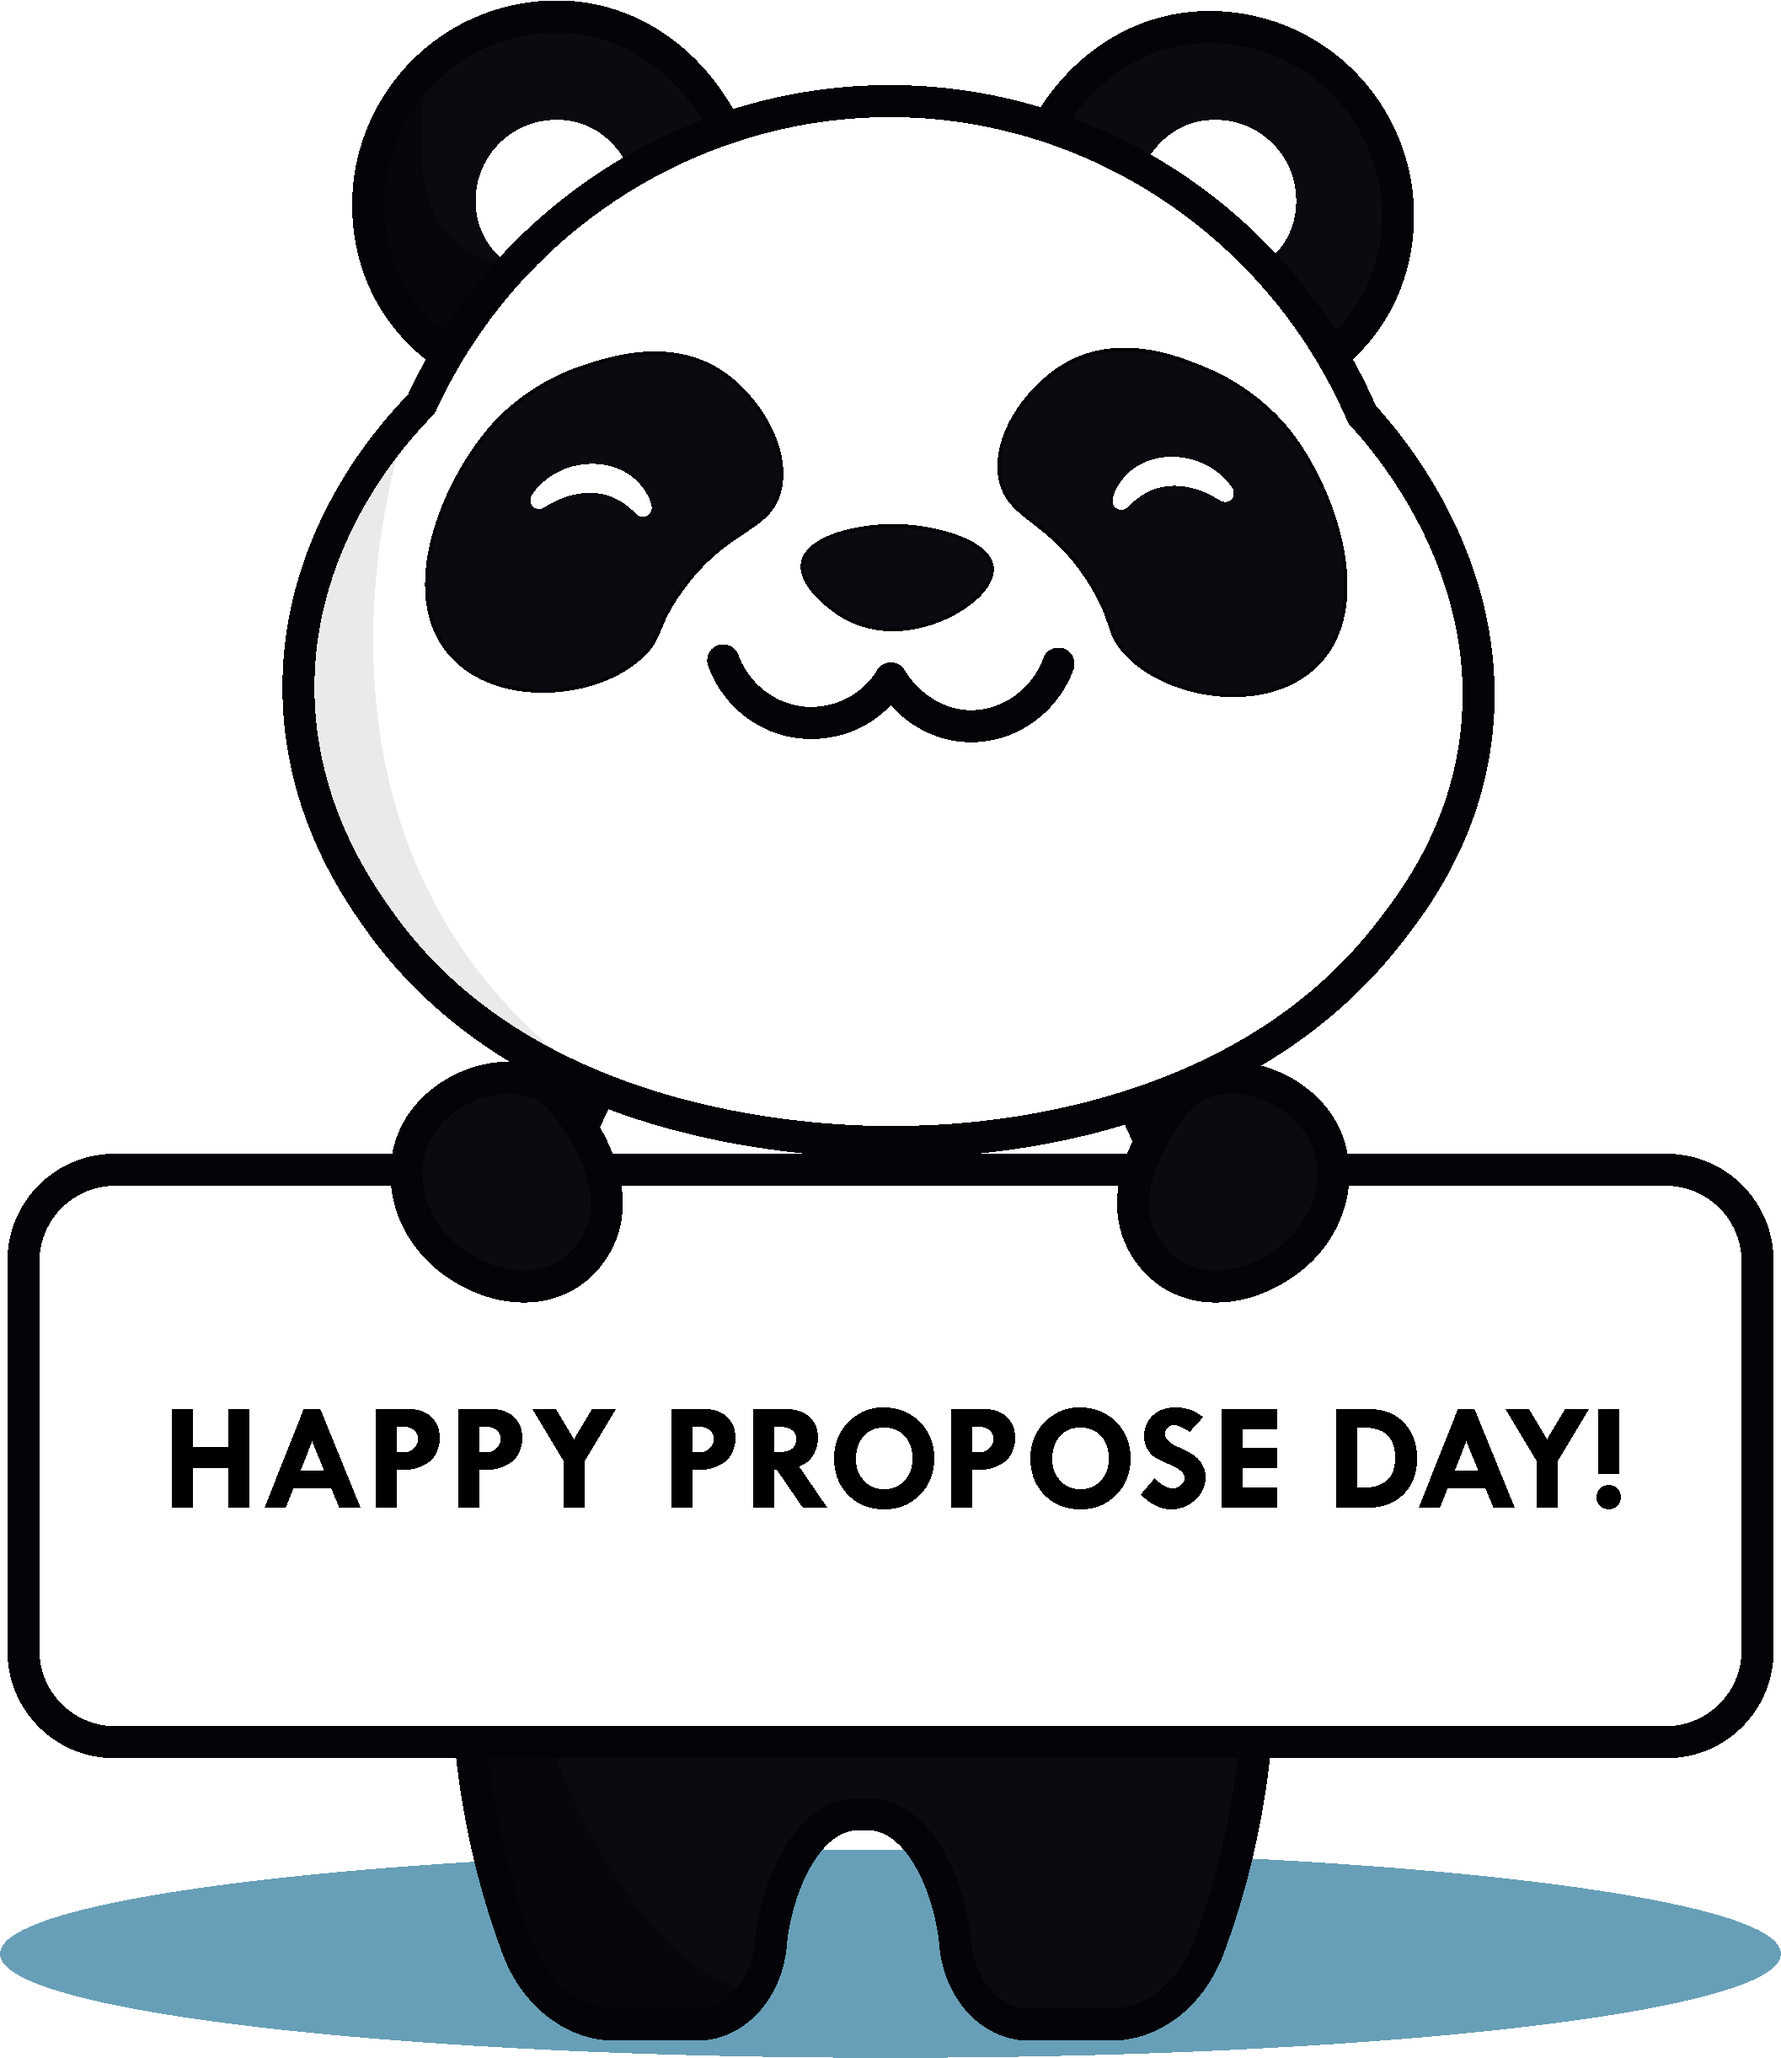
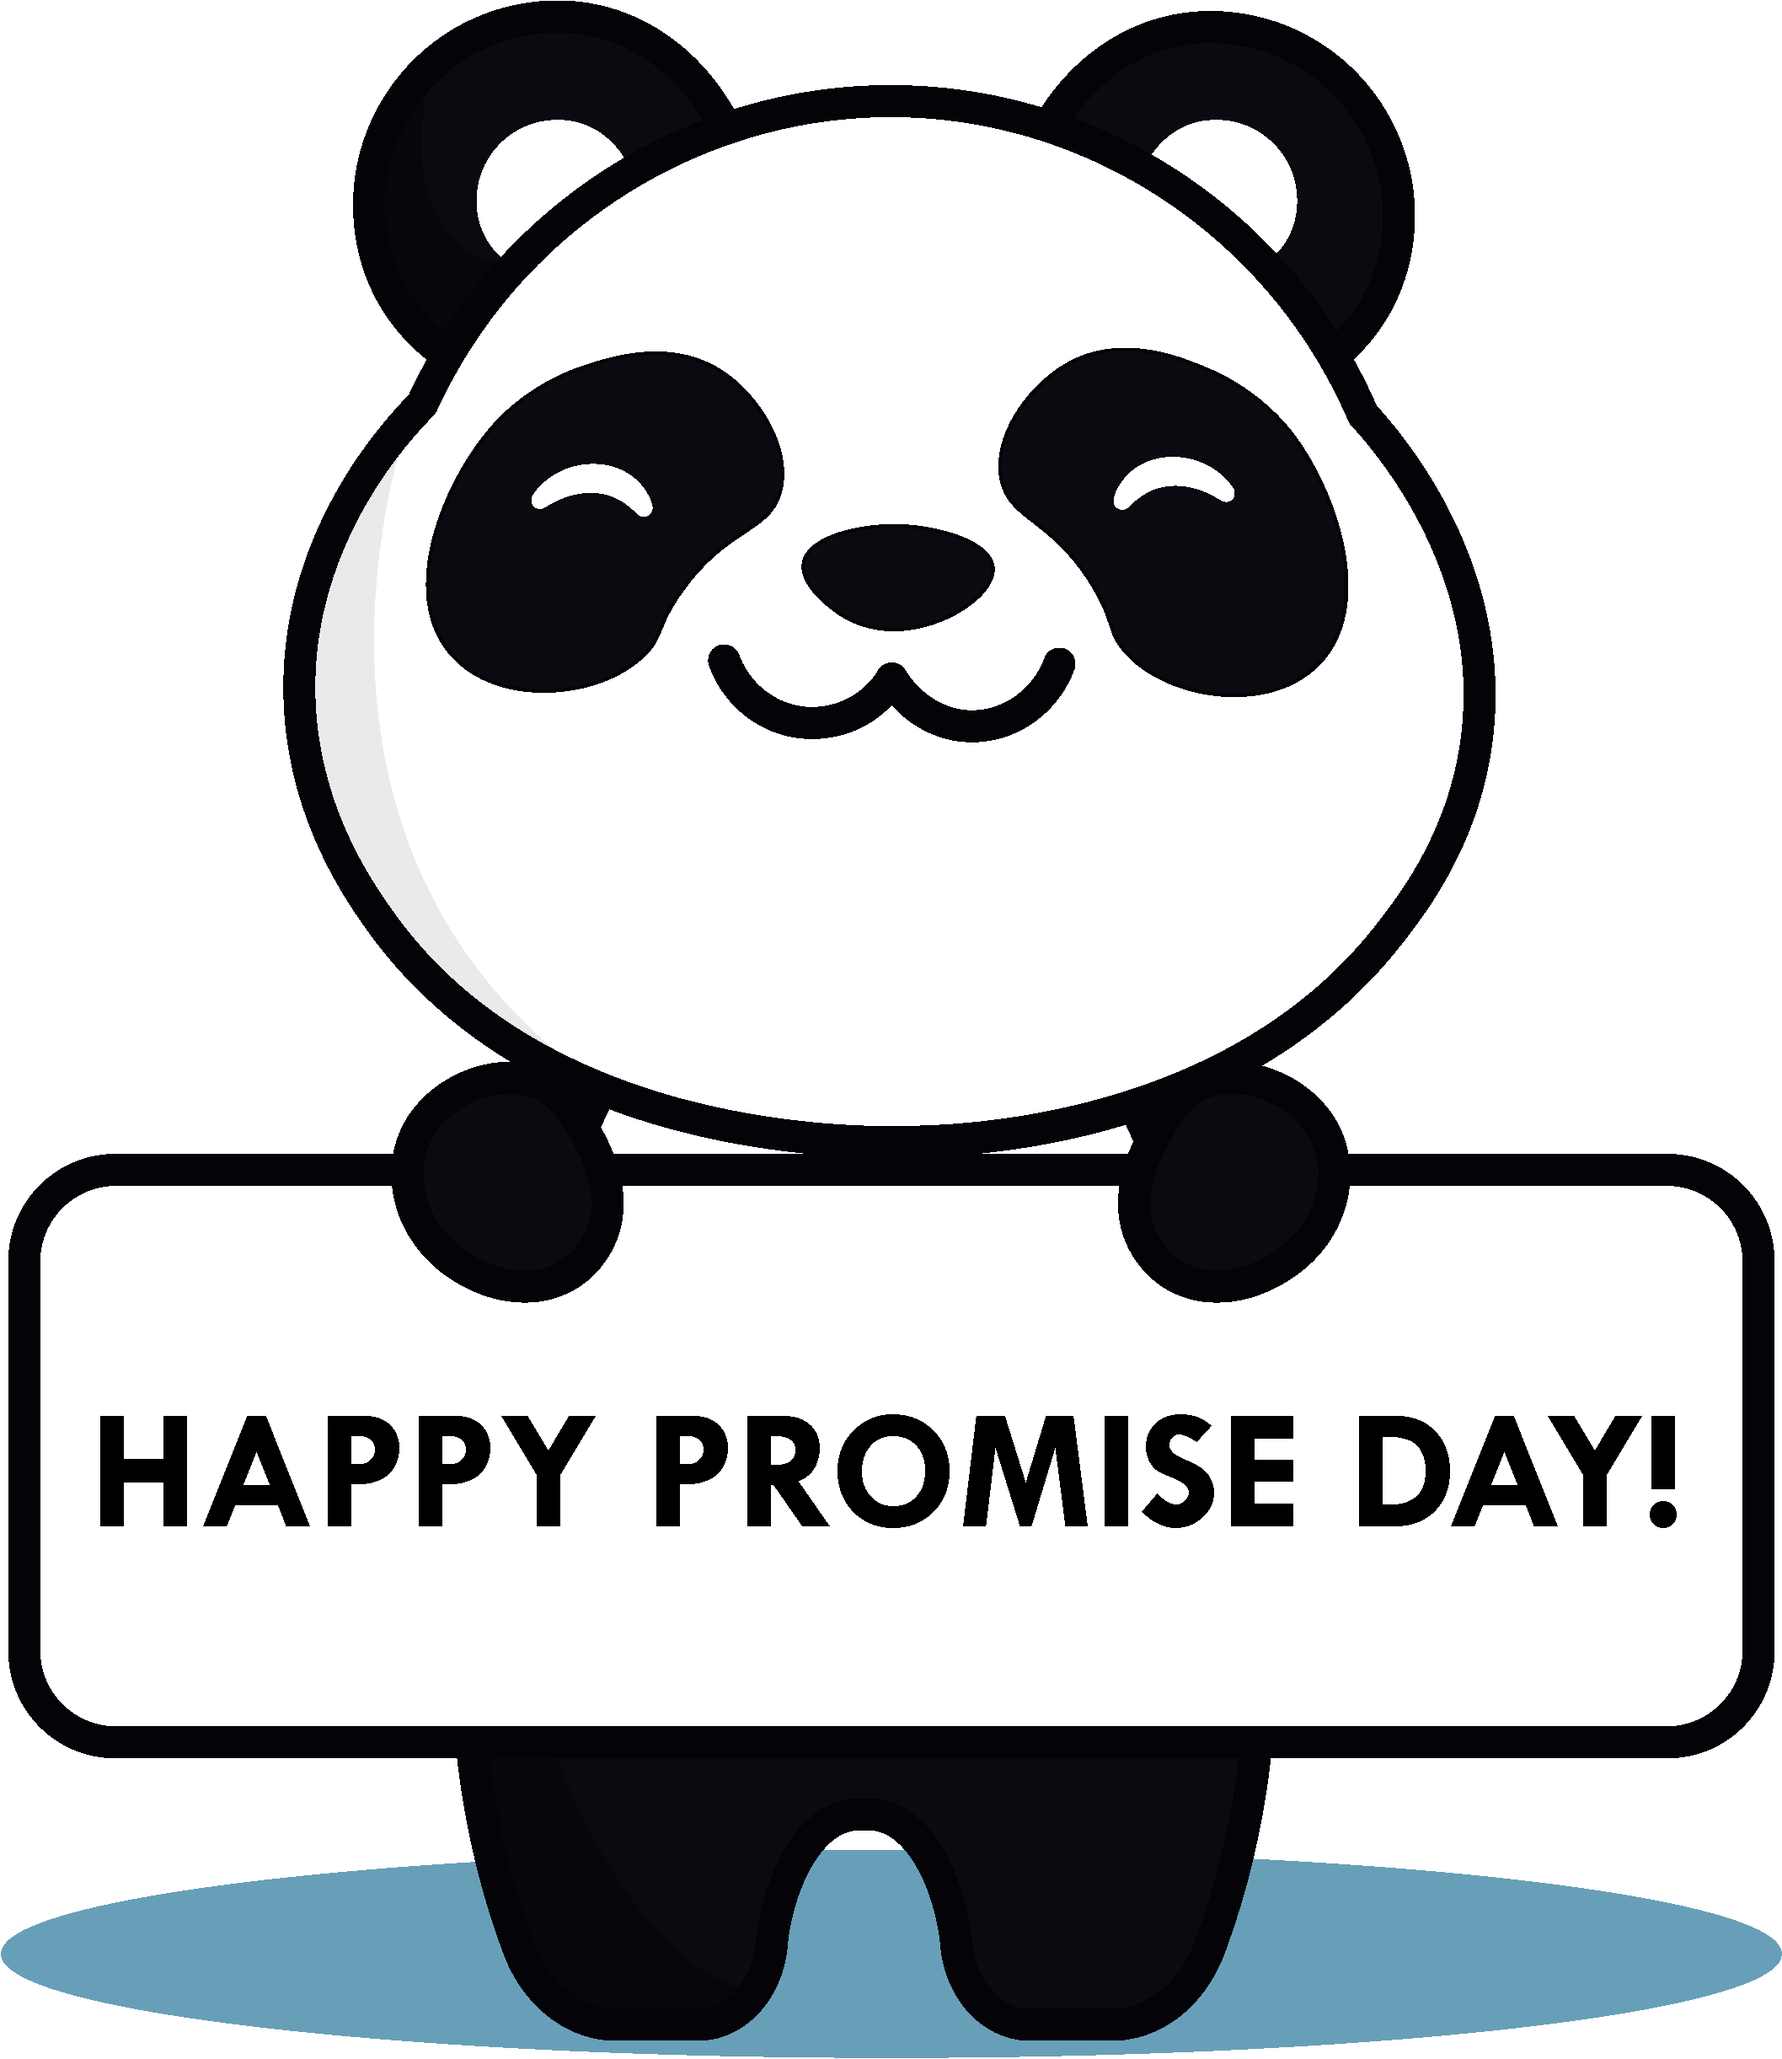
Add files via upload

Changed region(s): [[0.0312, 0.6847, 0.9366, 0.7469], [0.3122, 0.9959, 0.4683, 1.0]]

diff --git a/promise.html b/promise.html
@@ -1,0 +1,51 @@
+<!DOCTYPE html>
+<html lang="en">
+  <head>
+    <meta charset="UTF-8" />
+    <meta name="viewport" content="width=device-width, initial-scale=1.0" />
+
+    <link rel="stylesheet" href="./style.css" />
+
+    <link rel="shortcut icon" href="logo.png" />
+
+    <title>PadManish - Happy Propose Day!</title>
+  </head>
+  <body>
+    <!DOCTYPE html>
+    <html lang="en">
+      <head>
+        <meta charset="UTF-8" />
+        <meta name="viewport" content="width=device-width, initial-scale=1.0" />
+
+        <link
+          rel="stylesheet"
+          href="https://maxcdn.bootstrapcdn.com/bootstrap/4.0.0/css/bootstrap.min.css"
+          integrity="sha384-Gn5384xqQ1aoWXA+058RXPxPg6fy4IWvTNh0E263XmFcJlSAwiGgFAW/dAiS6JXm"
+          crossorigin="anonymous"
+        />
+
+        <link rel="stylesheet" href="./style.css" />
+
+        <link rel="shortcut icon" href="logo.png" />
+
+        <title>PadManish - Happy Promise Day!</title>
+      </head>
+      <body>
+        <div class="background">
+          <div class="pama-container p-b">
+            <h1>
+              I can't Promise to fix all your problems, but I can promise, you
+              won't have to face them alone!
+            </h1>
+
+            <h1>No matter what we will always be there for each other!</h1>
+
+            <h4>#padmanish_forever</h4>
+
+            <h3>Happy Promise Day Padma!</h3>
+          </div>
+        </div>
+      </body>
+    </html>
+  </body>
+</html>

diff --git a/style.css b/style.css
@@ -19,11 +19,15 @@ body {
   font-family: "Helvetica Neue", Helvetica, Arial, sans-serif;
   overflow-x: hidden;
 }
-@media screen and (max-width: 520px) {
-  html,
-  body {
-    /* don't know how to set default units to rem in mojs :(( */
-  }
+
+.p-b {
+  width: 100%;
+  padding: 10px;
+  background: rgba(255, 255, 255, 0.25);
+  backdrop-filter: blur(4px);
+  -webkit-backdrop-filter: blur(4px);
+  border-radius: 10px;
+  border: 1px solid rgba(255, 255, 255, 0.18);
 }
 
 .background {
@@ -41,11 +45,36 @@ body {
 }
 
 .pama-container h1 {
+  text-align: justify;
   width: 100%;
   font-weight: bolder;
   font-size: 35px;
   font-family: "Hachi Maru Pop", cursive;
   color: #689fb8;
+  text-align: center;
+  margin-bottom: 20px;
+  padding: 0;
+}
+
+.pama-container h3 {
+  text-align: justify;
+  width: 100%;
+  font-weight: bolder;
+  font-size: 35px;
+  font-family: "Hachi Maru Pop", cursive;
+  color: #e57373;
+  text-align: center;
+  margin-bottom: 20px;
+  padding: 0;
+}
+
+.pama-container h4 {
+  text-align: justify;
+  width: 100%;
+  font-weight: bolder;
+  font-size: 20px;
+  font-family: "Hachi Maru Pop", cursive;
+  color: #4a148c;
   text-align: center;
   margin-bottom: 20px;
   padding: 0;
@@ -82,6 +111,10 @@ body {
 }
 
 .pama img {
+  width: 100%;
+}
+
+.promise-box {
   width: 100%;
 }
 

diff --git a/index.html b/index.html
@@ -15,18 +15,17 @@
 
     <link rel="shortcut icon" href="logo.png" />
 
-    <title>PadManish - Happy Propose Day!</title>
+    <title>PadManish - Happy Promise Day!</title>
   </head>
   <body>
     <div class="background">
       <div class="pama-container">
         <h1>Hello from, Pama!</h1>
-
         <div class="row">
           <div class="col-sm-12 col-lg-6 offset-lg-3">
             <div class="pama">
               <button type="button" class="btn btn-danger">
-                <a href="message.html">Click Here</a>
+                <a href="promise.html">Click Here</a>
               </button>
               <img src="pama.png" alt="Not Available!" />
             </div>
